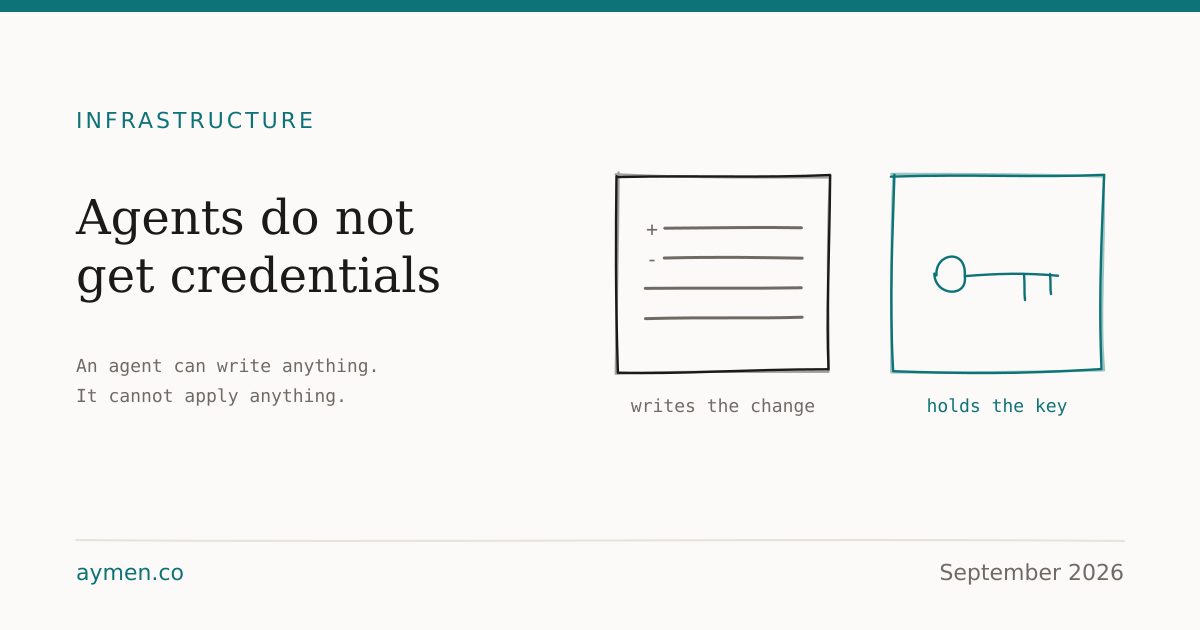
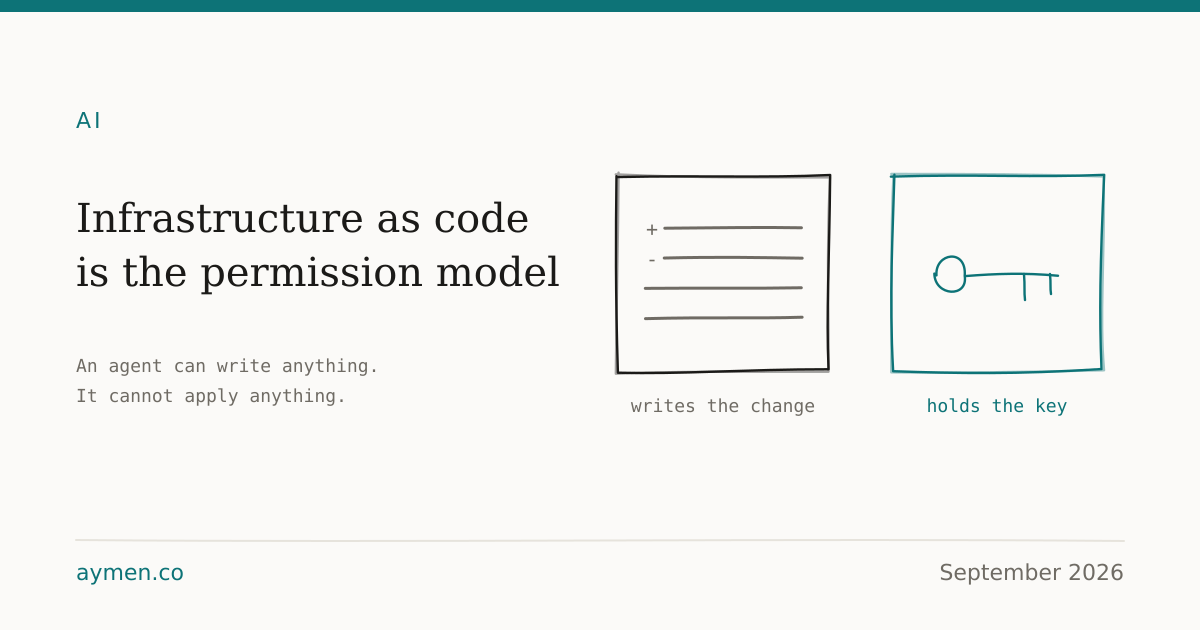
Retitle around infrastructure as code

Changed region(s): [[0.0617, 0.3016, 0.4625, 0.4825], [0.0617, 0.181, 0.2775, 0.2111]]

diff --git a/site/posts/agents-do-not-get-credentials.md b/site/posts/agents-do-not-get-credentials.md
@@ -1,5 +1,5 @@
 ---
-title: "Agents Do Not Get Credentials"
+title: "Infrastructure as Code Is the Permission Model"
 seoTitle: "Infrastructure as code with Argo: why an agent proposes a change instead of applying it"
 date: 2026-09-09
 categories: ["ai"]
